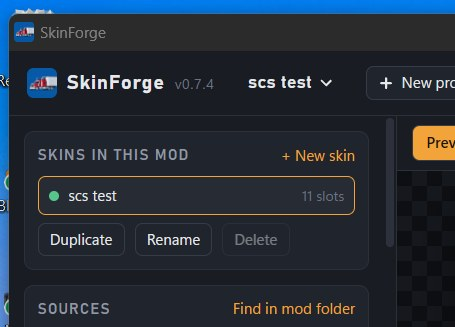
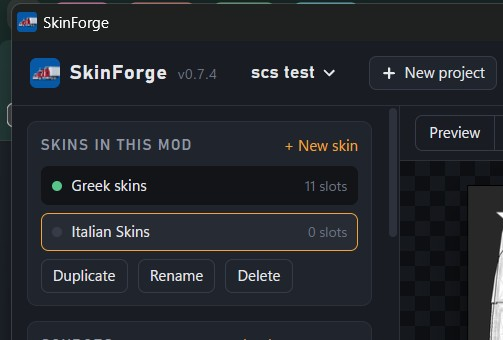
README: multi-skin screenshot
Claude-Session: https://claude.ai/code/session_01LagfjqppJZBs5BabxmV7Av

diff --git a/README.md b/README.md
@@ -11,6 +11,9 @@ trailers. That means no MS2 vehicle XMLs and no post-build patch.
 |---|---|
 | ![Preview](docs/preview.jpg) | ![Template](docs/template.jpg) |
 
+![Several skins in one mod](docs/skins.jpg)  
+*Several skins in one mod - each with its own name and shop icon.*
+
 ## Download
 
 Grab `SkinForge.exe` from the [Releases](../../releases) page - one file, nothing to install.
